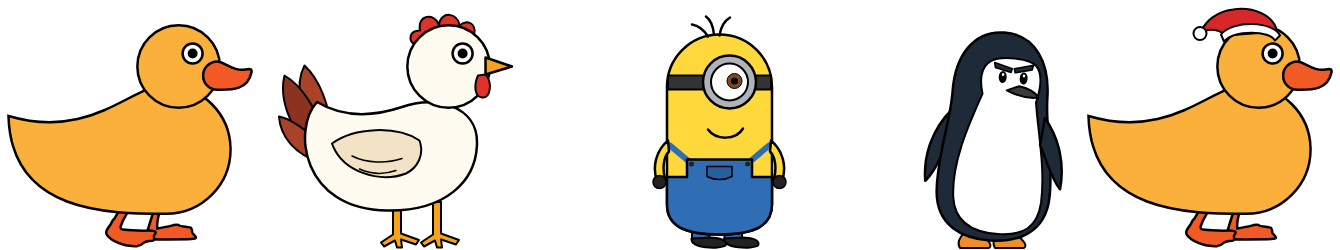
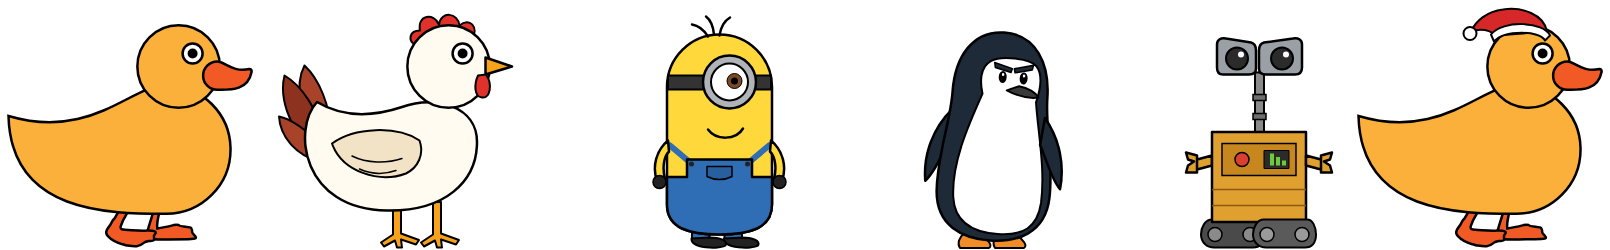
Kachna v2: robot uklízeč VALL-I
Nová postava Robot: uklízecí robot na pásech s očima jako dalekohled na
teleskopickém krku. Mluví v mužském rodě a hlavně o sbírání, třídění
a recyklaci odpadu (i v připomínkách a svátečních hláškách), hlas „píp“,
ve spánku mu zhasnou čočky. Převleky: čepice a čarodějnický klobouk.

Claude-Session: https://claude.ai/code/session_017cmzPJ1wqxm4tdFBENccHx

diff --git a/README.md b/README.md
@@ -47,11 +47,11 @@ Ovládání (Controls):
 V menu Nastavení (Settings menu): náhodné chování, chůze přes monitory, sezónní převleky, střídat postavy popořadě, zapnuté kachní hlášky, tichý režim (bez bublin), zvuk (kvák), vždy navrchu.
 (Random behaviour, walking across monitors, seasonal costumes, rotate characters in order, duck phrases on, quiet mode (no bubbles), sound (quack), always on top.)
 
-Postavy (Characters): kachna, slepice, žlutý brýlatý skřítek a tučňák velitel, který se při chůzi kolébá. Každá postava má vlastní hlášky, hlas a převleky.
+Postavy (Characters): kachna, slepice, žlutý brýlatý skřítek, tučňák velitel, který se při chůzi kolébá, a robot uklízeč VALL-I, který mluví hlavně o sbírání a recyklaci odpadu. Každá postava má vlastní hlášky, hlas a převleky.
 Po startu se postava vybere náhodně, v menu „Postava“ jde změnit a „Střídat postavy“ ji mění každých 15 minut, hodinu
 nebo 3 hodiny (náhodně, nebo popořadě). O Vánocích (1. 12. – 6. 1.) chodí kachna s mikulášskou čepicí. Výchozí postavu
 a kalendář jde změnit na začátku skriptu v `$config` (`Character`, `CharacterCalendar`).
-(Duck, hen, a yellow goggled sprite and a waddling penguin commander, each with its own phrases, voice and costumes. A random character is picked at
+(Duck, hen, a yellow goggled sprite and a waddling penguin commander and VALL-I, a cleaning robot who talks mostly about collecting and recycling waste, each with its own phrases, voice and costumes. A random character is picked at
 start; change it in the "Character" menu, or let "Rotate characters" switch it every 15 minutes, hour or 3 hours. At
 Christmas the duck with a Santa hat is forced. Change the default and the calendar in `$config` at the top of the script.)
 
@@ -65,7 +65,7 @@ Novinky ve v2 (What's new in v2):
 - hlášky se neopakují hned po sobě, kachna se občas sama zastaví, otočí nebo změní tempo (no phrase twice in a row, random stops, turns and pace changes),
 - hlášky podle denní doby, svátků, stavu baterie a ušlé vzdálenosti (phrases depending on the time of day, holidays, battery and the distance walked),
 - připomínky: pitný režim, protažení, Pomodoro – po startu zapnuté (reminders: drink water, stretch, Pomodoro – on by default),
-- postavy: kachna, slepice, žlutý brýlatý skřítek, tučňák velitel – náhodně, z menu, střídání, podle kalendáře (characters: duck, hen, yellow goggled sprite, penguin commander – random, from the menu, rotating, by calendar),
+- postavy: kachna, slepice, žlutý brýlatý skřítek, tučňák velitel, robot uklízeč – náhodně, z menu, střídání, podle kalendáře (characters: duck, hen, yellow goggled sprite, penguin commander, cleaning robot – random, from the menu, rotating, by calendar),
 - krmení rohlíkem, „Pojď za myší“, poskok, sezónní převleky (čepice v prosinci, brýle v létě), volitelný zvuk (feeding, follow the mouse, hop, seasonal costumes, optional sound),
 - šetří počítač: pohyb řídí animace WPF s omezeným počtem snímků, při zamčení PC se schová, po 10 minutách bez pohybu myši usne, na baterii přejde do úsporného režimu (saves resources: movement driven by frame-limited WPF animations, hides when the PC is locked, falls asleep after 10 minutes without mouse movement, power saving on battery),
 - po změně rozlišení nebo odpojení monitoru kachna nezmizí mimo obrazovku (the duck stays visible after a resolution change or when a monitor is disconnected).

diff --git a/CLAUDE.md b/CLAUDE.md
@@ -95,8 +95,8 @@ Pořadí sekcí: kontrola prostředí → `$config` → hlášky (+ `$characterP
   Probudí ji pohyb myši, klepnutí, přivolání nebo připomínka.
 - **Zrcadlení:** obsah okna je nakreslený pro chůzi doprava; `RootFlip.ScaleX = Direction` zrcadlí kachnu i bublinu,
   `TextFlip` vrací text zpět, aby byl čitelný.
-- **Postavy** (`$characters`: Kachna, Slepice, Skřítek, Tučňák): kresby jsou v XAML vedle sebe (`CharDuck`, `CharChicken`,
-  `CharMinion`, `CharPenguin`),
+- **Postavy** (`$characters`: Kachna, Slepice, Skřítek, Tučňák, Robot): kresby jsou v XAML vedle sebe (`CharDuck`, `CharChicken`,
+  `CharMinion`, `CharPenguin`, `CharRobot`),
   vidět je jen jedna. Popis postavy říká, které prvky jsou nohy (`Legs` + `LegShift`), tělo (`Body` + `Glow`), kolébání
   (`Tilt` = Canvas s `RotateTransform`, `TiltAngle`; převleky jsou v `CostumeTilt` se stejným středem otáčení a kolébají se
   s trupem – obojí animuje storyboard nohou, takže se kolébá jen při pohybu), oči (`Eyes`,
@@ -105,7 +105,7 @@ Pořadí sekcí: kontrola prostředí → `$config` → hlášky (+ `$characterP
   do menu (`Accusative`, `Adjective`, `SoundName`). Každá postava má svoje storyboardy (`$characterAnimations`), aktuální jsou
   v `$state.Legs`/`$state.Glow`. `Set-Character` přepne kresbu, storyboardy, oči, převlek, ikonu a pozdraví (`Hello`); poloha
   a stav zůstávají. Hlášky bere `Get-PhraseList` (vlastní seznam postavy, jinak kachní; připomínky a situace po klíčích).
-  Slepice mluví v ženském rodě, skřítek a tučňák v mužském (test hlídá). Start: `Initialize-Character` (kalendář
+  Slepice mluví v ženském rodě, skřítek, tučňák a robot v mužském (test hlídá); robot mluví hlavně o sbírání a recyklaci. Start: `Initialize-Character` (kalendář
   `CharacterCalendar` → `Character` → náhodně), střídání `Invoke-CharacterRotation` v tepu (ne během období z kalendáře),
   kalendář `Update-CharacterCalendar` 1× za minutu přepne jen na začátku období (ruční volba pak platí).
   Nová postava = kresba `Char…` v XAML, záznam v `$characters`, jména prvků do `FindName` a hlášky v `$characterPhrases`.
